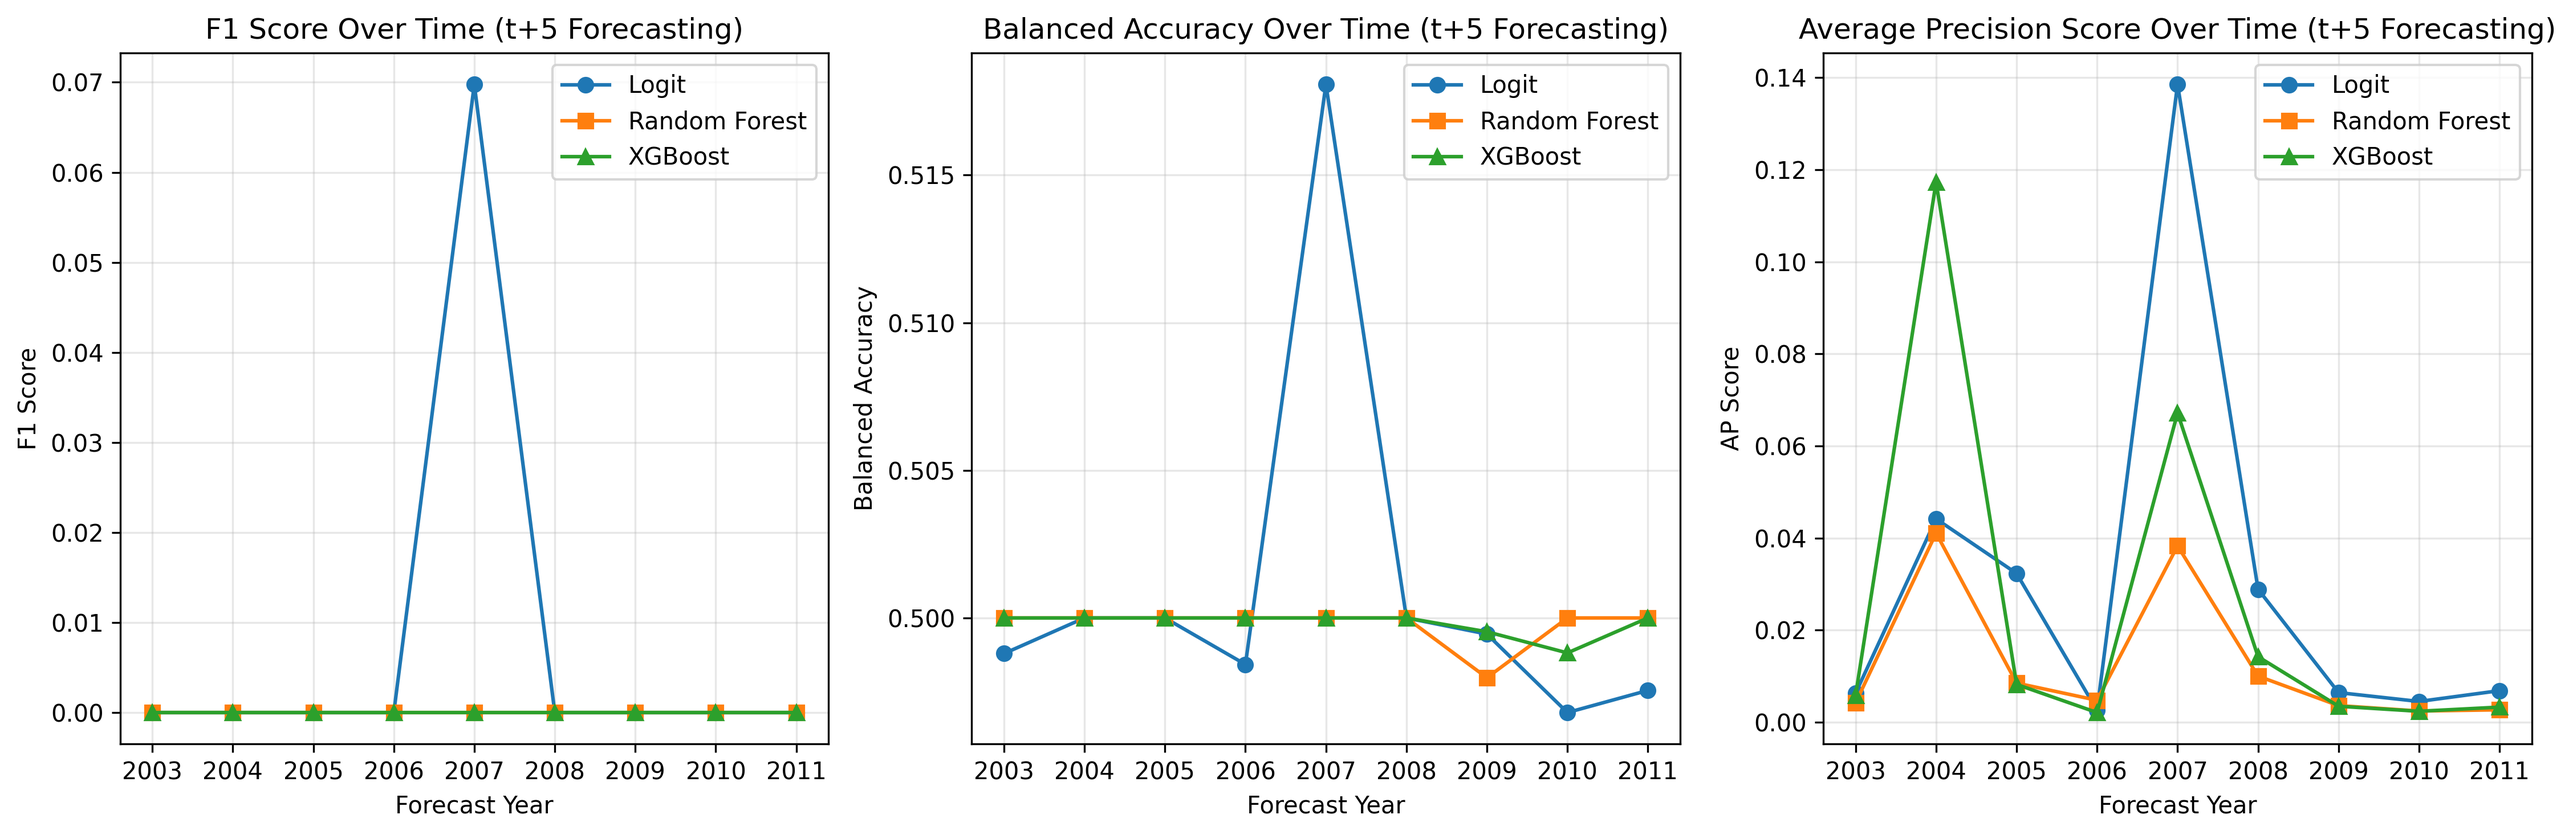
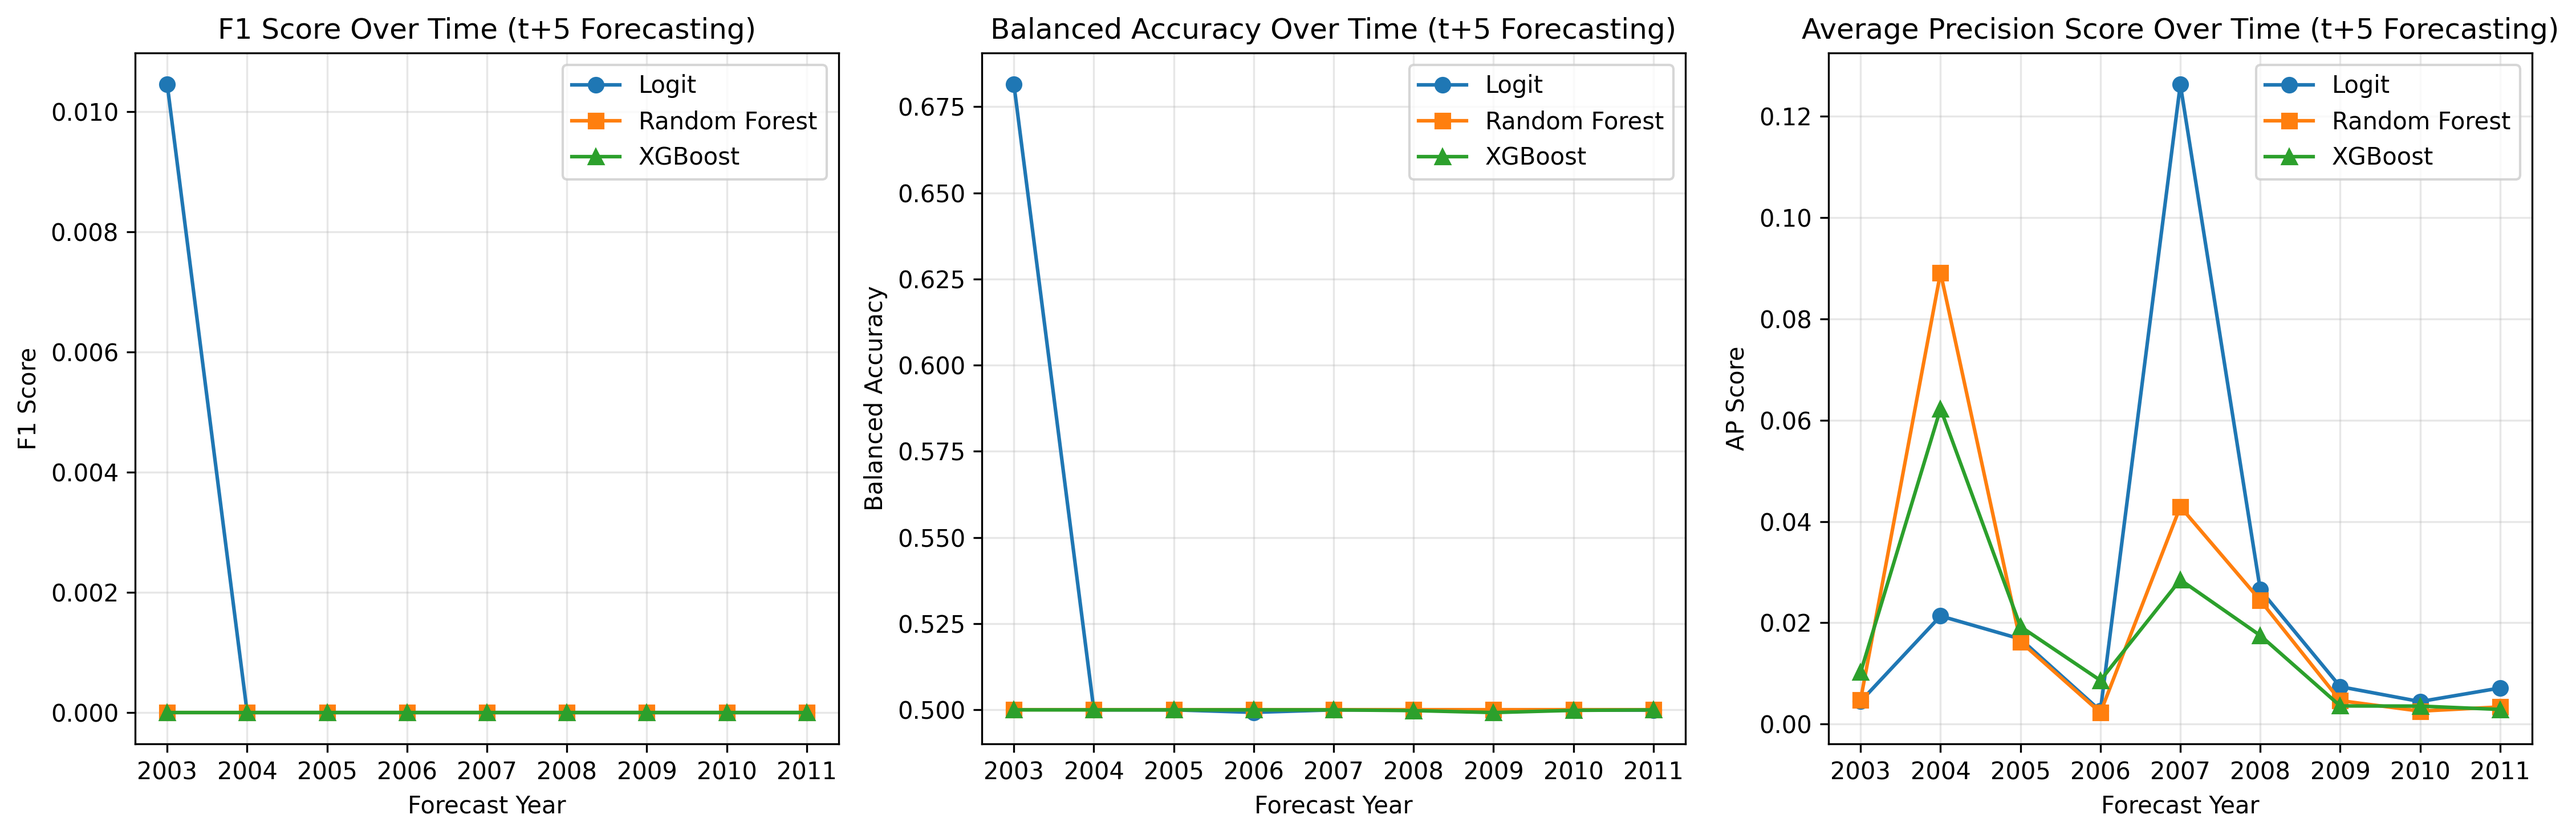
Finalized Parinandi (2020) with best AUC-PR parameters.

diff --git a/ml_forecast/parinandi_forecast.py b/ml_forecast/parinandi_forecast.py
@@ -68,11 +68,11 @@ for train_end_year in range(mid_year, max_year):
     
     # Logistic Regression
     logit_model = linear_model.LogisticRegression(
-        C = 0.1, 
-        class_weight = {0: 1, 1: 10}, 
+        C = 0.001, 
+        class_weight = None, 
         fit_intercept = True,
-        penalty = 'l2', 
-        solver = 'liblinear', 
+        penalty = None, 
+        solver = 'lbfgs', 
         max_iter = 2500, 
         random_state = 1337
     )
@@ -89,15 +89,15 @@ for train_end_year in range(mid_year, max_year):
     rf_model = RandomForestClassifier(
         bootstrap = True, 
         ccp_alpha = 0.0, 
-        class_weight = 'balanced', 
-        criterion = 'log_loss',
-        max_depth = None, 
-        max_features = None, 
+        class_weight = None, 
+        criterion = 'gini',
+        max_depth = 10, 
+        max_features = 'log2', 
         max_leaf_nodes = None, 
-        max_samples = 0.5,
+        max_samples = None,
         min_samples_leaf = 1,
-        min_samples_split = 4, 
-        n_estimators = 500, 
+        min_samples_split = 2, 
+        n_estimators = 300, 
         random_state = 1337
     )
 
@@ -112,22 +112,22 @@ for train_end_year in range(mid_year, max_year):
     # XGBoost
     xgb_model = XGBClassifier(
         booster = 'gbtree', 
-        colsample_bytree = 0.5, 
-        eval_metric = 'auc', 
-        gamma = 2,
-        grow_policy = 'lossguide', 
-        learning_rate = 0.1, 
-        max_bin = 16, 
-        max_depth = 20,
-        max_leaves = 0, 
-        min_child_weight = 1, 
-        n_estimators = 500, 
+        colsample_bytree = 1.0, 
+        eval_metric = 'error', 
+        gamma = 0,
+        grow_policy = 'depthwise', 
+        learning_rate = 0.3, 
+        max_bin = 128, 
+        max_depth = 3,
+        max_leaves = 16, 
+        min_child_weight = 5, 
+        n_estimators = 300, 
         objective = 'binary:logistic',
-        reg_alpha = 2, 
+        reg_alpha = 0, 
         reg_lambda = 1, 
-        scale_pos_weight = 5, 
-        subsample = 1.0,
-        tree_method = 'auto', 
+        scale_pos_weight = 1, 
+        subsample = 0.7632039015158524,
+        tree_method = 'exact', 
         random_state = 1337
     )
 
@@ -140,7 +140,7 @@ for train_end_year in range(mid_year, max_year):
     results['xgb']['ap_score'].append(average_precision_score(y_test, xgb_scores))
 
 # Save aggregated results
-with open("figures/parinandi_2020/t1_forecast_results.txt", "w") as f:
+with open("figures/parinandi2020/t1_forecast_results.txt", "w") as f:
     for model in ['logit', 'rf', 'xgb']:
         f.write(f"\n{model.upper()} Results:\n")
         f.write(f"Average F1: {np.mean(results[model]['f1']):.4f} (±{np.std(results[model]['f1']):.4f})\n")
@@ -186,7 +186,7 @@ plt.legend()
 plt.grid(True, alpha = 0.3)
 
 plt.tight_layout()
-plt.savefig('figures/parinandi_2020/t1_forecast_timeseries.png', dpi = 300, bbox_inches = 'tight')
+plt.savefig('figures/parinandi2020/t1_forecast_timeseries.png', dpi = 300, bbox_inches = 'tight')
 plt.show()
 
 # Save CSV
@@ -203,7 +203,7 @@ time_series_results = pd.DataFrame({
     'xgb_ap_score': results['xgb']['ap_score']
 })
 
-time_series_results.to_csv('figures/parinandi_2020/t1_forecast_timeseries.csv', index = False)
+time_series_results.to_csv('figures/parinandi2020/t1_forecast_timeseries.csv', index = False)
 
 #--------------------------------------------------------------------------------------------------------
 
@@ -242,11 +242,11 @@ for train_end_year in range(mid_year, max_year - 4):
     
     # Logistic Regression
     logit_model = linear_model.LogisticRegression(
-        C = 0.1, 
-        class_weight = {0: 1, 1: 10}, 
+        C = 0.001, 
+        class_weight = None, 
         fit_intercept = True,
-        penalty = 'l2', 
-        solver = 'liblinear', 
+        penalty = None, 
+        solver = 'lbfgs', 
         max_iter = 2500, 
         random_state = 1337
     )
@@ -263,15 +263,15 @@ for train_end_year in range(mid_year, max_year - 4):
     rf_model = RandomForestClassifier(
         bootstrap = True, 
         ccp_alpha = 0.0, 
-        class_weight = 'balanced', 
-        criterion = 'log_loss',
-        max_depth = None, 
-        max_features = None, 
+        class_weight = None, 
+        criterion = 'gini',
+        max_depth = 10, 
+        max_features = 'log2', 
         max_leaf_nodes = None, 
-        max_samples = 0.5,
+        max_samples = None,
         min_samples_leaf = 1,
-        min_samples_split = 4, 
-        n_estimators = 500, 
+        min_samples_split = 2, 
+        n_estimators = 300, 
         random_state = 1337
     )
 
@@ -286,22 +286,22 @@ for train_end_year in range(mid_year, max_year - 4):
     # XGBoost
     xgb_model = XGBClassifier(
         booster = 'gbtree', 
-        colsample_bytree = 0.5, 
-        eval_metric = 'auc', 
-        gamma = 2,
-        grow_policy = 'lossguide', 
-        learning_rate = 0.1, 
-        max_bin = 16, 
-        max_depth = 20,
-        max_leaves = 0, 
-        min_child_weight = 1, 
-        n_estimators = 500, 
+        colsample_bytree = 1.0, 
+        eval_metric = 'error', 
+        gamma = 0,
+        grow_policy = 'depthwise', 
+        learning_rate = 0.3, 
+        max_bin = 128, 
+        max_depth = 3,
+        max_leaves = 16, 
+        min_child_weight = 5, 
+        n_estimators = 300, 
         objective = 'binary:logistic',
-        reg_alpha = 2, 
+        reg_alpha = 0, 
         reg_lambda = 1, 
-        scale_pos_weight = 5, 
-        subsample = 1.0,
-        tree_method = 'auto', 
+        scale_pos_weight = 1, 
+        subsample = 0.7632039015158524,
+        tree_method = 'exact', 
         random_state = 1337
     )
 
@@ -314,7 +314,7 @@ for train_end_year in range(mid_year, max_year - 4):
     results['xgb']['ap_score'].append(average_precision_score(y_test, xgb_scores))
 
 # Save aggregated results
-with open("figures/parinandi_2020/t5_forecast_results.txt", "w") as f:
+with open("figures/parinandi2020/t5_forecast_results.txt", "w") as f:
     for model in ['logit', 'rf', 'xgb']:
         f.write(f"\n{model.upper()} Results:\n")
         f.write(f"Average F1: {np.mean(results[model]['f1']):.4f} (±{np.std(results[model]['f1']):.4f})\n")
@@ -360,7 +360,7 @@ plt.legend()
 plt.grid(True, alpha = 0.3)
 
 plt.tight_layout()
-plt.savefig('figures/parinandi_2020/t5_forecast_timeseries.png', dpi = 300, bbox_inches = 'tight')
+plt.savefig('figures/parinandi2020/t5_forecast_timeseries.png', dpi = 300, bbox_inches = 'tight')
 plt.show()
 
 # Save CSV
@@ -377,7 +377,7 @@ time_series_results = pd.DataFrame({
     'xgb_ap_score': results['xgb']['ap_score']
 })
 
-time_series_results.to_csv('figures/parinandi_2020/t5_forecast_timeseries.csv', index = False)
+time_series_results.to_csv('figures/parinandi2020/t5_forecast_timeseries.csv', index = False)
 
 #--------------------------------------------------------------------------------------------------------
 
@@ -416,11 +416,11 @@ for train_end_year in range(mid_year, max_year - 9):
     
     # Logistic Regression
     logit_model = linear_model.LogisticRegression(
-        C = 0.1, 
-        class_weight = {0: 1, 1: 10}, 
+        C = 0.001, 
+        class_weight = None, 
         fit_intercept = True,
-        penalty = 'l2', 
-        solver = 'liblinear', 
+        penalty = None, 
+        solver = 'lbfgs', 
         max_iter = 2500, 
         random_state = 1337
     )
@@ -437,15 +437,15 @@ for train_end_year in range(mid_year, max_year - 9):
     rf_model = RandomForestClassifier(
         bootstrap = True, 
         ccp_alpha = 0.0, 
-        class_weight = 'balanced', 
-        criterion = 'log_loss',
-        max_depth = None, 
-        max_features = None, 
+        class_weight = None, 
+        criterion = 'gini',
+        max_depth = 10, 
+        max_features = 'log2', 
         max_leaf_nodes = None, 
-        max_samples = 0.5,
+        max_samples = None,
         min_samples_leaf = 1,
-        min_samples_split = 4, 
-        n_estimators = 500, 
+        min_samples_split = 2, 
+        n_estimators = 300, 
         random_state = 1337
     )
 
@@ -460,22 +460,22 @@ for train_end_year in range(mid_year, max_year - 9):
     # XGBoost
     xgb_model = XGBClassifier(
         booster = 'gbtree', 
-        colsample_bytree = 0.5, 
-        eval_metric = 'auc', 
-        gamma = 2,
-        grow_policy = 'lossguide', 
-        learning_rate = 0.1, 
-        max_bin = 16, 
-        max_depth = 20,
-        max_leaves = 0, 
-        min_child_weight = 1, 
-        n_estimators = 500, 
+        colsample_bytree = 1.0, 
+        eval_metric = 'error', 
+        gamma = 0,
+        grow_policy = 'depthwise', 
+        learning_rate = 0.3, 
+        max_bin = 128, 
+        max_depth = 3,
+        max_leaves = 16, 
+        min_child_weight = 5, 
+        n_estimators = 300, 
         objective = 'binary:logistic',
-        reg_alpha = 2, 
+        reg_alpha = 0, 
         reg_lambda = 1, 
-        scale_pos_weight = 5, 
-        subsample = 1.0,
-        tree_method = 'auto', 
+        scale_pos_weight = 1, 
+        subsample = 0.7632039015158524,
+        tree_method = 'exact', 
         random_state = 1337
     )
 
@@ -488,7 +488,7 @@ for train_end_year in range(mid_year, max_year - 9):
     results['xgb']['ap_score'].append(average_precision_score(y_test, xgb_scores))
 
 # Save aggregated results
-with open("figures/parinandi_2020/t10_forecast_results.txt", "w") as f:
+with open("figures/parinandi2020/t10_forecast_results.txt", "w") as f:
     for model in ['logit', 'rf', 'xgb']:
         f.write(f"\n{model.upper()} Results:\n")
         f.write(f"Average F1: {np.mean(results[model]['f1']):.4f} (±{np.std(results[model]['f1']):.4f})\n")
@@ -534,7 +534,7 @@ plt.legend()
 plt.grid(True, alpha = 0.3)
 
 plt.tight_layout()
-plt.savefig('figures/parinandi_2020/t10_forecast_timeseries.png', dpi = 300, bbox_inches = 'tight')
+plt.savefig('figures/parinandi2020/t10_forecast_timeseries.png', dpi = 300, bbox_inches = 'tight')
 plt.show()
 
 # Save CSV
@@ -551,4 +551,4 @@ time_series_results = pd.DataFrame({
     'xgb_ap_score': results['xgb']['ap_score']
 })
 
-time_series_results.to_csv('figures/parinandi_2020/t10_forecast_timeseries.csv', index = False)
+time_series_results.to_csv('figures/parinandi2020/t10_forecast_timeseries.csv', index = False)
